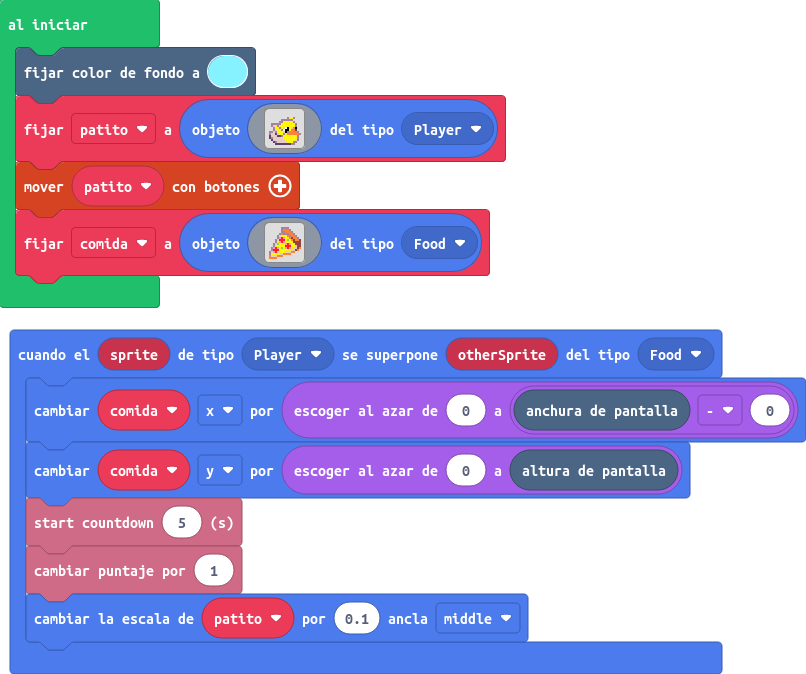
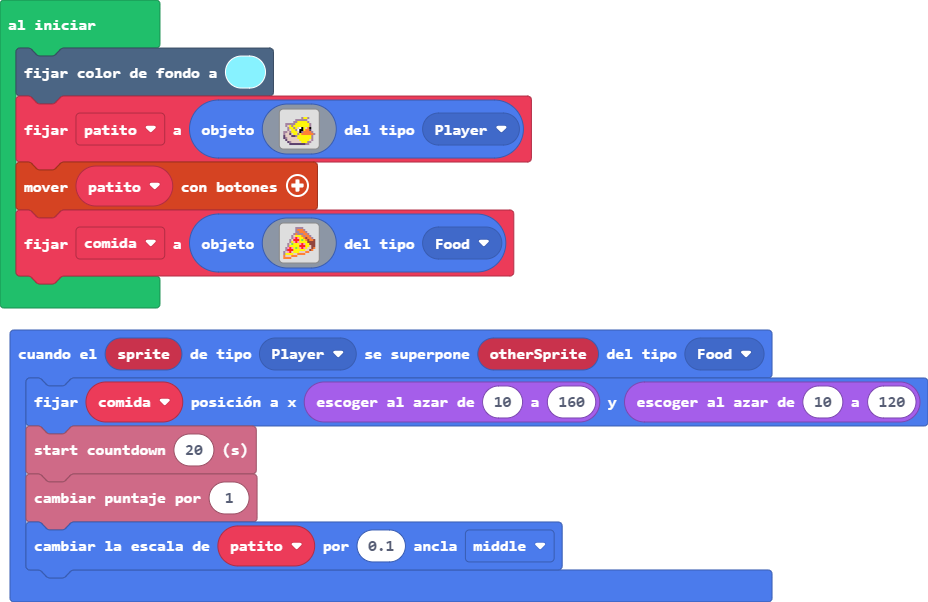
modificado

diff --git a/main.ts b/main.ts
@@ -1,7 +1,6 @@
 sprites.onOverlap(SpriteKind.Player, SpriteKind.Food, function (sprite, otherSprite) {
-    comida.x += randint(0, scene.screenWidth() - 0)
-    comida.y += randint(0, scene.screenHeight())
-    info.startCountdown(5)
+    comida.setPosition(randint(10, 160), randint(10, 120))
+    info.startCountdown(20)
     info.changeScoreBy(1)
     patito.changeScale(0.1, ScaleAnchor.Middle)
 })
